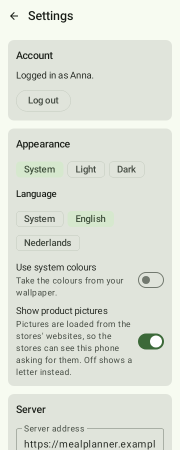
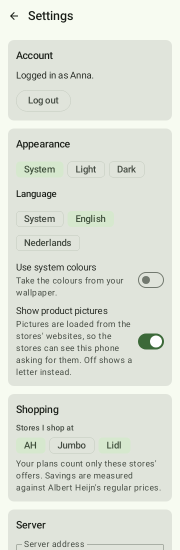
Stores switched off: leave their offers out of the whole shopping list, choose them in Settings (#75)
The by-section list and shopping mode still showed the cheapest offer of every store, and a row's picture could come from a store switched off. Settings gets a Shopping card that uses the same AccountShops as the per-store list, and logging out forgets the stores shown so the next account never sees the last one's.

diff --git a/composeApp/src/commonMain/kotlin/dev/tobins/mealplanner/app/ShoppingScreen.kt b/composeApp/src/commonMain/kotlin/dev/tobins/mealplanner/app/ShoppingScreen.kt
@@ -232,15 +232,16 @@ fun ShoppingScreen(
             is Load.Ready -> {
                 val list = current.value
                 @Composable
-                fun row(item: ShoppingItem, offer: Offer? = item.bestOffer()) = ShoppingRow(
+                fun row(item: ShoppingItem, offer: Offer? = item.bestOffer(shops)) = ShoppingRow(
                     item,
                     offer,
+                    shops,
                     shoppingMode,
                     onToggle = { if (shoppingMode) tickWithUndo(item) else tick(item.key, !item.checked) },
                     onOfferClick = {
                         scope.launch {
                             snackbar.currentSnackbarData?.dismiss()
-                            snackbar.showSnackbar(item.offers.distinctBy { it.store to it.deal }.joinToString("\n") { "${it.shortText(t)} (${it.title})" })
+                            snackbar.showSnackbar(item.offers.filter { it.store in shops }.distinctBy { it.store to it.deal }.joinToString("\n") { "${it.shortText(t)} (${it.title})" })
                         }
                     },
                 )
@@ -420,9 +421,13 @@ private fun ViewSwitch(view: ShoppingView, onChange: (ShoppingView) -> Unit) {
  * needs at least one. The note under them says so, and what the savings are measured against.
  */
 @Composable
-private fun ShopsInUse(shops: Set<Store>, onChange: (Set<Store>) -> Unit) {
+fun ShopsInUse(
+    shops: Set<Store>,
+    onChange: (Set<Store>) -> Unit,
+    modifier: Modifier = Modifier.padding(horizontal = Spacing.ScreenEdge, vertical = Spacing.Tight),
+) {
     val t = LocalStrings.current
-    Column(Modifier.padding(horizontal = Spacing.ScreenEdge, vertical = Spacing.Tight)) {
+    Column(modifier) {
         Text(t(Msg.STORES_I_SHOP_AT), style = MaterialTheme.typography.labelMedium, color = MaterialTheme.colorScheme.onSurfaceVariant)
         Row(horizontalArrangement = Arrangement.spacedBy(8.dp)) {
             Store.entries.forEach { store ->
@@ -493,7 +498,7 @@ private fun ToggleHeader(title: String, open: Boolean, onToggle: () -> Unit) {
 }
 
 @Composable
-private fun ShoppingRow(item: ShoppingItem, offer: Offer?, shoppingMode: Boolean, onToggle: () -> Unit, onOfferClick: () -> Unit) {
+private fun ShoppingRow(item: ShoppingItem, offer: Offer?, shops: Set<Store>, shoppingMode: Boolean, onToggle: () -> Unit, onOfferClick: () -> Unit) {
     val t = LocalStrings.current
     Row(
         Modifier.fillMaxWidth()
@@ -503,7 +508,7 @@ private fun ShoppingRow(item: ShoppingItem, offer: Offer?, shoppingMode: Boolean
         verticalAlignment = Alignment.CenterVertically,
     ) {
         Checkbox(checked = item.checked, onCheckedChange = null, modifier = Modifier.padding(12.dp))
-        ProductPicture(item.pictureUrl(offer), item.name, size = if (shoppingMode) 56.dp else 48.dp, dimmed = item.checked)
+        ProductPicture(item.pictureUrl(offer, shops), item.name, size = if (shoppingMode) 56.dp else 48.dp, dimmed = item.checked)
         Column(Modifier.weight(1f).padding(start = 12.dp, top = 6.dp, bottom = 6.dp)) {
             Text(
                 if (item.onHand) t(Msg.ON_HAND_MAYBE, item.name) else item.name,

diff --git a/composeApp/src/androidHostTest/kotlin/dev/tobins/mealplanner/app/ScreenshotTest.kt b/composeApp/src/androidHostTest/kotlin/dev/tobins/mealplanner/app/ScreenshotTest.kt
@@ -33,6 +33,7 @@ import androidx.compose.ui.unit.dp
 import androidx.test.core.app.ActivityScenario
 import com.github.takahirom.roborazzi.RoborazziOptions
 import com.github.takahirom.roborazzi.captureRoboImage
+import dev.tobins.mealplanner.api.ShopsSetting
 import dev.tobins.mealplanner.api.Store
 import org.junit.After
 import org.junit.Before
@@ -56,7 +57,7 @@ data class Look(val dark: Boolean, val widthDp: Int, val fontScale: Float) {
 }
 
 @Composable
-private fun shopping(api: ApiClient, shoppingMode: Boolean, view: ShoppingView = ShoppingView.SECTION, store: Store? = null) {
+private fun shopping(api: ApiClient, shoppingMode: Boolean, view: ShoppingView = ShoppingView.SECTION, store: Store? = null, shops: Set<Store>? = null) {
     val storage = remember {
         MemorySettingsStorage().also {
             it.saveShoppingMode(shoppingMode)
@@ -64,7 +65,7 @@ private fun shopping(api: ApiClient, shoppingMode: Boolean, view: ShoppingView =
             it.saveShoppingStore(store)
         }
     }
-    ShoppingScreen(api, ShoppingCache(storage), storage, remember { AccountShops(storage, api::shops, api::saveShops) }, {}, {})
+    ShoppingScreen(api, ShoppingCache(storage), storage, remember { AccountShops(storage, { shops?.let { ShopsSetting(it.toList()) } ?: api.shops() }, { it }) }, {}, {})
 }
 
 /** Controls of three kinds; the test gives the one tagged [FOCUSED] keyboard focus, to see the ring on each. */
@@ -119,6 +120,7 @@ enum class Shot(
     PLAN(heightDp = 4400, content = { api, _ -> PlanScreen(api, {}, {}) }),
     SHOPPING(heightDp = 1300, content = { api, _ -> shopping(api, shoppingMode = false) }),
     SHOPPING_MODE(heightDp = 1300, content = { api, _ -> shopping(api, shoppingMode = true) }),
+    SHOPPING_WITHOUT_JUMBO(heightDp = 1300, content = { api, _ -> shopping(api, shoppingMode = false, shops = setOf(Store.AH, Store.LIDL)) }),
     SHOPPING_EMPTY(emptyWeek = true, content = { api, _ -> shopping(api, shoppingMode = false) }),
     SHOPPING_STORES(heightDp = 1300, content = { api, _ -> shopping(api, shoppingMode = false, view = ShoppingView.STORE) }),
     SHOPPING_AT_JUMBO(heightDp = 1100, content = { api, _ -> shopping(api, shoppingMode = false, view = ShoppingView.STORE, store = Store.JUMBO) }),
@@ -134,7 +136,7 @@ enum class Shot(
     FOCUS_OUTLINED_BUTTON(heightDp = 200, content = { _, _ -> focusRing(1) }),
     FOCUS_ICON_BUTTON(heightDp = 200, content = { _, _ -> focusRing(2) }),
     SHELL(content = { _, settings -> shell(settings) }),
-    SETTINGS(heightDp = 900, content = { _, _ ->
+    SETTINGS(heightDp = 1100, content = { _, _ ->
         ServerSettingsScreen(
             current = ServerSettings("https://mealplanner.example.nl"),
             account = "Anna",
@@ -151,6 +153,7 @@ enum class Shot(
             onSystemColors = {},
             productPictures = true,
             onProductPictures = {},
+            accountShops = AccountShops(MemorySettingsStorage().also { it.saveShops(setOf(Store.AH, Store.LIDL)) }, { ShopsSetting() }, { it }),
             onSave = {},
             onBack = {},
         )

diff --git a/composeApp/src/commonMain/kotlin/dev/tobins/mealplanner/app/ServerSettingsScreen.kt b/composeApp/src/commonMain/kotlin/dev/tobins/mealplanner/app/ServerSettingsScreen.kt
@@ -63,6 +63,8 @@ fun ServerSettingsScreen(
     onSystemColors: (Boolean) -> Unit,
     productPictures: Boolean,
     onProductPictures: (Boolean) -> Unit,
+    /** The stores the account shops at: the same state and save path as the per-store shopping list. */
+    accountShops: AccountShops,
     onSave: (ServerSettings) -> Unit,
     onBack: () -> Unit,
 ) {
@@ -150,6 +152,19 @@ fun ServerSettingsScreen(
                     SwitchRow(t(Msg.SYSTEM_COLORS), t(Msg.SYSTEM_COLORS_HINT), systemColors, onSystemColors)
                 }
                 SwitchRow(t(Msg.PRODUCT_PICTURES), t(Msg.PRODUCT_PICTURES_HINT), productPictures, onProductPictures)
+            }
+            if (loggedIn) {
+                var shopsError by remember { mutableStateOf<String?>(null) }
+                SettingsCard(t(Msg.CARD_SHOPPING)) {
+                    ShopsInUse(
+                        accountShops.stores,
+                        onChange = { chosen ->
+                            scope.launch { shopsError = (load { accountShops.choose(chosen) } as? Load.Failed)?.message }
+                        },
+                        modifier = Modifier,
+                    )
+                    shopsError?.let { ErrorBanner(t(Msg.SHOPS_SAVE_FAILED_TITLE), it) }
+                }
             }
             if (updater != null) AppVersionSection(updater)
             if (loggedIn) server()

diff --git a/composeApp/src/commonMain/kotlin/dev/tobins/mealplanner/app/App.kt b/composeApp/src/commonMain/kotlin/dev/tobins/mealplanner/app/App.kt
@@ -85,7 +85,10 @@ fun App(
         ApiClient(settings, session) {
             val current = storage.session() ?: return@ApiClient null
             login.refresh(settings.url, current) ?: run {
-                if (storage.session() == null) session = null
+                if (storage.session() == null) {
+                    storage.clearShops()
+                    session = null
+                }
                 null
             }
         }
@@ -188,7 +191,7 @@ fun App(
                         }
                     },
                     onLogout = {
-                        storage.saveSession(null)
+                        storage.logOut()
                         session = null
                     },
                     updater = updater,
@@ -212,10 +215,11 @@ fun App(
                         storage.saveProductPictures(it)
                         productPictures = it
                     },
+                    accountShops = accountShops,
                     onSave = {
                         // Another server has its own accounts: the session doesn't carry over.
                         if (it.url != settings.url) {
-                            storage.saveSession(null)
+                            storage.logOut()
                             session = null
                         }
                         storage.saveServerSettings(it)

diff --git a/composeApp/src/commonMain/kotlin/dev/tobins/mealplanner/app/ProductPictures.kt b/composeApp/src/commonMain/kotlin/dev/tobins/mealplanner/app/ProductPictures.kt
@@ -25,6 +25,7 @@ import coil3.ImageLoader
 import coil3.compose.AsyncImage
 import dev.tobins.mealplanner.api.Offer
 import dev.tobins.mealplanner.api.ShoppingItem
+import dev.tobins.mealplanner.api.Store
 
 /**
  * Loads the product pictures. Null (the default) means none are loaded and every row keeps its
@@ -48,9 +49,11 @@ fun loadablePictureUrl(url: String?, browser: Boolean): String? {
 
 /**
  * The picture of the offer the row shows its badge for, so picture and badge name the same store
- * (the per-store views choose among fewer stores than the overview); else the item's own picture.
+ * (the per-store views choose among fewer stores than the overview); else the item's own picture,
+ * unless that is a picture from a store outside [shops].
  */
-fun ShoppingItem.pictureUrl(shown: Offer?): String? = shown?.imageUrl ?: imageUrl
+fun ShoppingItem.pictureUrl(shown: Offer?, shops: Set<Store> = Store.entries.toSet()): String? =
+    shown?.imageUrl ?: imageUrl?.takeUnless { url -> offers.any { it.store !in shops && it.imageUrl == url } }
 
 /** The first letter or digit of [name], capitalised: what stands in for a picture. */
 fun pictureInitial(name: String): String = name.firstOrNull { it.isLetterOrDigit() }?.uppercase() ?: "•"

diff --git a/composeApp/src/commonMain/kotlin/dev/tobins/mealplanner/app/Messages.kt b/composeApp/src/commonMain/kotlin/dev/tobins/mealplanner/app/Messages.kt
@@ -143,6 +143,7 @@ enum class Msg(private val english: String, private val dutch: String) {
     ),
     COULD_NOT_LOG_IN("Could not log in", "Inloggen is niet gelukt"),
     CARD_APPEARANCE("Appearance", "Weergave"),
+    CARD_SHOPPING("Shopping", "Boodschappen"),
     SYSTEM_COLORS("Use system colours", "Systeemkleuren gebruiken"),
     SYSTEM_COLORS_HINT("Take the colours from your wallpaper.", "Neem de kleuren over van je achtergrond."),
     PRODUCT_PICTURES("Show product pictures", "Productfoto's tonen"),
@@ -375,6 +376,7 @@ enum class Msg(private val english: String, private val dutch: String) {
         "Your plans count only these stores' offers. Savings are measured against Albert Heijn's regular prices.",
         "Je weekplan telt alleen de aanbiedingen van deze winkels. Besparingen zijn vergeleken met de reguliere prijzen van Albert Heijn.",
     ),
+    SHOPS_SAVE_FAILED_TITLE("Could not save the stores", "Winkels opslaan is niet gelukt"),
     SHOPS_SAVE_FAILED("Could not save the stores: {0}", "Winkels opslaan is niet gelukt: {0}"),
     STORE_SAVING_HINT("Saves about {0} · tap to shop here", "Bespaart ongeveer {0} · tik om hier te winkelen"),
     SHOPPING_AT("Shopping at {0}", "Boodschappen bij {0}"),

diff --git a/composeApp/src/commonTest/kotlin/dev/tobins/mealplanner/app/AccountShopsTest.kt b/composeApp/src/commonTest/kotlin/dev/tobins/mealplanner/app/AccountShopsTest.kt
@@ -143,4 +143,28 @@ class AccountShopsTest {
         assertEquals(all, ShopsSetting(emptyList()).storesInUse())
         assertEquals(setOf(Store.LIDL), ShopsSetting(listOf(Store.LIDL)).storesInUse())
     }
+
+    @Test
+    fun theNextAccountOnTheDeviceNeverSeesTheLastOnesStores() = runTest {
+        val storage = MemorySettingsStorage()
+        val first = shops(storage, FakeServer(ShopsSetting(listOf(Store.AH))))
+        first.sync()
+        assertEquals(setOf(Store.AH), first.stores)
+
+        storage.logOut()
+
+        val second = shops(storage, FakeServer(latency = 100))
+        assertEquals(all, second.stores, "before the second account's answer arrives")
+        assertEquals(null, storage.session())
+    }
+
+    @Test
+    fun theSettingsAndTheShoppingListShareOneChoice() = runTest {
+        val server = FakeServer()
+        val shared = shops(MemorySettingsStorage(), server)
+        // Both screens are handed this one instance: a choice made in either shows in the other.
+        shared.choose(setOf(Store.LIDL))
+        assertEquals(setOf(Store.LIDL), shared.stores)
+        assertEquals(listOf(listOf(Store.LIDL)), server.sent)
+    }
 }

diff --git a/composeApp/src/commonTest/kotlin/dev/tobins/mealplanner/app/ProductPicturesTest.kt b/composeApp/src/commonTest/kotlin/dev/tobins/mealplanner/app/ProductPicturesTest.kt
@@ -51,4 +51,15 @@ class ProductPicturesTest {
         assertEquals(lidl, item.pictureUrl(null))
         assertEquals(lidl, item.pictureUrl(offer(Store.AH, 1.49, null)))
     }
+
+    @Test
+    fun theItemsOwnPictureIsLeftOutWhenItComesFromAStoreSwitchedOff() {
+        fun offer(store: Store, price: Double, image: String?) =
+            Offer(store, "Pear", null, price, validFrom = "2026-01-01", validUntil = "2026-01-07", imageUrl = image)
+        val item = ShoppingItem("pear", "Pear", null, null, "Fruit", emptyList(), false, false, listOf(offer(Store.AH, 1.49, null), offer(Store.LIDL, 1.19, lidl)), imageUrl = lidl)
+        val withoutLidl = setOf(Store.AH, Store.JUMBO)
+
+        assertNull(item.pictureUrl(item.bestOffer(withoutLidl), withoutLidl))
+        assertEquals(lidl, item.pictureUrl(item.bestOffer(), Store.entries.toSet()))
+    }
 }

diff --git a/composeApp/src/commonMain/kotlin/dev/tobins/mealplanner/app/SettingsStorage.kt b/composeApp/src/commonMain/kotlin/dev/tobins/mealplanner/app/SettingsStorage.kt
@@ -95,6 +95,15 @@ fun SettingsStorage.shops(): Set<Store> {
 
 fun SettingsStorage.saveShops(shops: Set<Store>) = set(SHOPS_KEY, shops.joinToString(",") { it.name })
 
+/** Forgets the stores shown, for when another account may log in on this device; all stores until the server answers. */
+fun SettingsStorage.clearShops() = set(SHOPS_KEY, "")
+
+/** Ends the session and forgets what belongs to the account, so the next login starts clean. */
+fun SettingsStorage.logOut() {
+    saveSession(null)
+    clearShops()
+}
+
 private const val SHOPS_MOVED_KEY = "shopsMovedToAccount"
 
 /** Whether this device's own choice of stores has been offered to the account, which happens once. */

diff --git a/docs/data-sources.md b/docs/data-sources.md
@@ -113,7 +113,9 @@ Only offers at the stores the account shops at count ("Stores I shop at", an acc
 `GET`/`PUT /api/shops`; an account that never chose shops at every store). The plan's and the
 recipes' costs, the planner's preference and the offers named to Claude when writing a recipe all
 leave the other stores out. The shopping list still carries every store's offers, and the app
-leaves out those of stores not in use.
+leaves out those of stores not in use, with their pictures, in every view of the list. The stores can be
+chosen on the per-store list and under Settings, Shopping (one shared setting); logging out forgets the
+stores shown until the next account's answer arrives.
 
 The shopping list gives each item's regular price for the amount needed (`ShoppingItem.regularPrice`)
 and each offer's share (`Offer.paidShare`, as above), so the app can show what a store's offers save:
